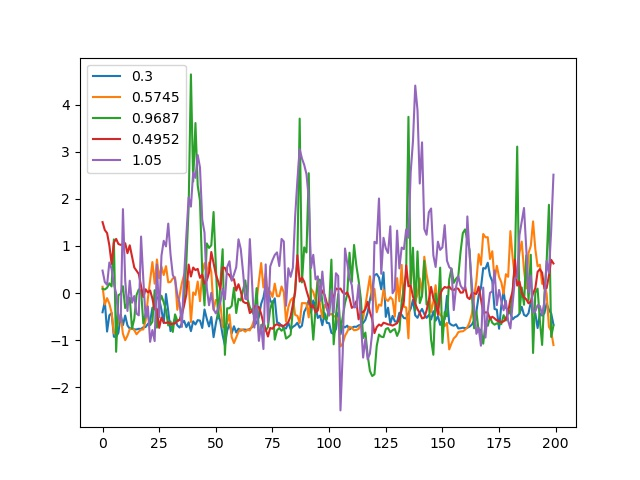
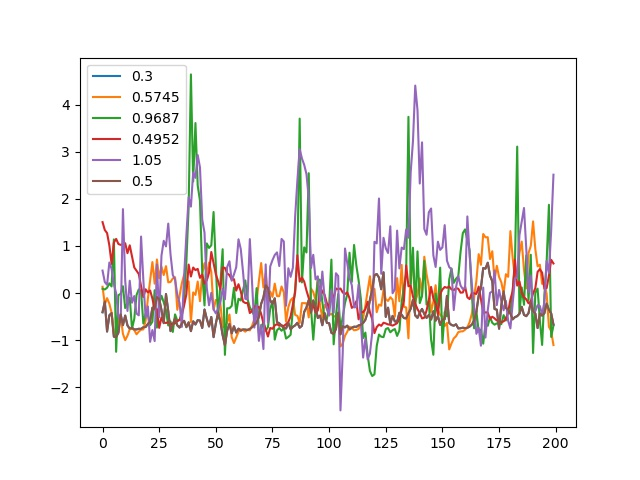
0125

Changed region(s): [[0.1562, 0.5312, 0.875, 0.7188], [0.125, 0.3438, 0.25, 0.4062]]

diff --git a/demo2.py b/demo2.py
@@ -15,15 +15,12 @@ data2 = pd.read_csv(f2)
 data3 = pd.read_csv(f3)
 data4 = pd.read_csv(f4)
 data6 = pd.read_csv(f5)
-
 data5 = pd.read_excel('PBOSS.xlsx')
 
 
 # 设置预测值，根据
 # 1.2倍四分位方差，计算异常值
 # 根据10天的
-
-
 def Warningfun(s_q, p=1.2):
     # 计算上下四分位数
     Q1 = s_q.quantile(q=0.25)
@@ -59,35 +56,32 @@ def Warningfun_main(s_q, inv_t=48):
         # index_flage = np.linspace(0, day_num, num=int(day_num / inv_t) + 1, dtype=int)
         # series_temp2 = series_temp[np.linspace(0, day_num - 1, num=int(day_num / inv_t) + 1, dtype=int)]  # 获取同比数据
         # 等差数列 获取同比数据
-        s_q_temp2=s_q_temp[np.linspace(0, day_num - 1, num=int(day_num / inv_t) + 1, dtype=int)]  # 获取同比数据
-        # 获取四分位
+        s_q_temp2 = s_q_temp[np.linspace(0, day_num - 1, num=int(day_num / inv_t) + 1, dtype=int)]  # 获取同比数据
+        # 获取四分位 异常值
         low_quantile, high_quantile = Warningfun(s_q_temp2)
         result_low.append(low_quantile)
         result_high.append(high_quantile)
     return result_low, result_high
 
 
-def model(df):
-    # 获取最后一列  业务量
-    D_series = df.iloc[:, -1]
-    low_quantile, high_quantile = Warningfun_main(D_series)
-    df['low_quantile'] = low_quantile
-    df['high_quantile'] = high_quantile
-    return df
+# def model(df):
+#     # 获取最后一列  业务量
+#     D_series = df.iloc[:, -1]
+#     low_quantile, high_quantile = Warningfun_main(D_series)
+#     df['low_quantile'] = low_quantile
+#     df['high_quantile'] = high_quantile
+#     return df
+
 
 # 线上预测
 if __name__ == '__main__':
-
- def model_predict(df):
-    # 获取业务量数据
-    D_df = df.iloc[:, -1]
-    # print(D_df)
-    low_quantile, high_quantile = Warningfun_main(D_df)
-    df['low_quantile'] = low_quantile
-    df['high_quantile'] = high_quantile
-    return df
-
-
+    def model_predict(df):
+        # 获取业务量数据
+        D_df = df.iloc[:, -1]
+        low_quantile, high_quantile = Warningfun_main(D_df)
+        df['low_quantile'] = low_quantile
+        df['high_quantile'] = high_quantile
+        return df
 
 
 def plot_fun(df, index=0):
@@ -100,7 +94,6 @@ def plot_fun(df, index=0):
     plt.plot(predict_down, color='g', linestyle='--', label='predict_down')
     plt.legend()
     plt.savefig('plot_' + str(index) + '.jpg')
-    # plt.show()
 
 
 # 计算比例方差
@@ -116,34 +109,35 @@ def std_avg(df):
 def std_avg_to(df):
     # 归一化操作
     df['x'] = df.iloc[:, 0] - df.iloc[:, 1]
+    # print(df['x'])
     df['x1'] = (df['x'] - df['x'].mean()) / df['x'].std()
     return df
 
 
 data1 = data1[['日期', '时间', '业务量']]
-data1 = model(data1)
+data1 = model_predict(data1)
 data1 = std_avg_to(data1[['业务量', 'low_quantile', 'high_quantile']])
 
 data2 = data2[['日期', '时间', '总业务量']]
-data2 = model(data2)
+data2 = model_predict(data2)
 data2 = std_avg_to(data2[['总业务量', 'low_quantile', 'high_quantile']])
 
 data3 = data3[['轮次', '业务', '接收第三方渠道交易量']]
-data3 = model(data3)
+data3 = model_predict(data3)
 data3 = std_avg_to(data3[['接收第三方渠道交易量', 'low_quantile', 'high_quantile']])
 
 data4 = data4[['轮次', '业务', '接收第三方渠道交易量']]
-data4 = model(data4)
+data4 = model_predict(data4)
 data4 = std_avg_to(data4[['接收第三方渠道交易量', 'low_quantile', 'high_quantile']])
 
 data5 = data5[['轮次', '总业务量']]
-data5 = model(data5)
+data5 = model_predict(data5)
 data5 = std_avg_to(data5[['总业务量', 'low_quantile', 'high_quantile']])
 
 # 测试数据
 data6 = data6[['日期', '时间', '业务量']]
 data6 = model_predict(data6)
-data6 = std_avg_to()
+data6 = std_avg_to(data1[['业务量', 'low_quantile', 'high_quantile']])
 
 #  计算差值波动方差
 std_1 = std_avg(data1[['业务量', 'low_quantile', 'high_quantile']])
@@ -151,22 +145,25 @@ std_2 = std_avg(data2[['总业务量', 'low_quantile', 'high_quantile']])
 std_3 = std_avg(data3[['接收第三方渠道交易量', 'low_quantile', 'high_quantile']])
 std_4 = std_avg(data4[['接收第三方渠道交易量', 'low_quantile', 'high_quantile']])
 std_5 = std_avg(data5[['总业务量', 'low_quantile', 'high_quantile']])
-# print([std_1,std_2,std_3,std_4,std_5])
-
+std_6 = std_avg(data6[['业务量', 'low_quantile', 'high_quantile']])
+# print([std_1, std_2, std_3, std_4, std_5, std_6])
 
 # 画图1
-
-plt.figure()  # 创建画布
+plt.figure()
 std_ts1 = data1.iloc[-200:, -1].reset_index(drop=True)
 std_ts2 = data2.iloc[-200:, -1].reset_index(drop=True)
 std_ts3 = data3.iloc[-200:, -1].reset_index(drop=True)
 std_ts4 = data4.iloc[-200:, -1].reset_index(drop=True)
 std_ts5 = data5.iloc[-200:, -1].reset_index(drop=True)
+# 测试数据
+std_ts6 = data6.iloc[-200:, -1].reset_index(drop=True)
 plt.plot(std_ts1, label='0.3')
 plt.plot(std_ts2, label='0.5745')
 plt.plot(std_ts3, label='0.9687')
 plt.plot(std_ts4, label='0.4952')
 plt.plot(std_ts5, label='1.05')
+# 测试数据
+plt.plot(std_ts6, label='0.5')
 plt.legend()
 plt.savefig('plot_0.jpg')
 
@@ -178,32 +175,39 @@ std_ts2 = data2.iloc[-200:, -1].reset_index(drop=True)
 std_ts3 = data3.iloc[-200:, -1].reset_index(drop=True)
 std_ts4 = data4.iloc[-200:, -1].reset_index(drop=True)
 std_ts5 = data5.iloc[-200:, -1].reset_index(drop=True)
+# 测试数据
+std_ts6 = data6.iloc[-200:, -1].reset_index(drop=True)
 fig, ax1 = plt.subplots(figsize=(10, 10))
-plt.subplot(511)
+plt.subplot(611)
 plt.plot(std_ts1, label='0.3')
 plt.ylim(-2, 3)
 plt.legend()
-plt.subplot(512)
+plt.subplot(612)
 plt.plot(std_ts4, label='0.4952')
 plt.ylim(-2, 3)
 plt.legend()
-plt.subplot(513)
+plt.subplot(613)
 plt.plot(std_ts2, label='0.5745')
 plt.ylim(-2, 3)
 plt.legend()
-plt.subplot(514)
+plt.subplot(614)
 plt.plot(std_ts3, label='0.9687')
 plt.ylim(-2, 3)
 plt.legend()
-plt.subplot(515)
+plt.subplot(615)
 plt.plot(std_ts5, label='1.05')
+plt.ylim(-2, 3)
+# 测试数据
+plt.subplot(616)
+plt.plot(std_ts6, label='0.5')
 plt.ylim(-2, 3)
 plt.legend()
 plt.savefig('plot_00.jpg')
 
 # 画图
-# plot_fun(data1[['业务量','low_quantile','high_quantile']],index=11)
+# plot_fun(data1[['业务量', 'low_quantile', 'high_quantile']], index=11)
 # plot_fun(data2[['总业务量','low_quantile','high_quantile']],index=21)
 # plot_fun(data3[['接收第三方渠道交易量','low_quantile','high_quantile']],index=31)
 # plot_fun(data4[['接收第三方渠道交易量','low_quantile','high_quantile']],index=41)
 # plot_fun(data5[['总业务量','low_quantile','high_quantile']],index=51)
+# plot_fun(data6[['业务量', 'low_quantile', 'high_quantile']], index=61)

diff --git a/test2.py b/test2.py
@@ -1,0 +1,57 @@
+import numpy as np
+import matplotlib.pyplot as plt
+
+# subplots创建多个子图
+x = np.arange(0, 100)
+# 划分子图
+fig, axes = plt.subplots(2, 2)
+ax1 = axes[0, 0]
+ax2 = axes[0, 1]
+ax3 = axes[1, 0]
+ax4 = axes[1, 1]
+# 作图1
+ax1.plot(x, x)
+# 作图2
+ax2.plot(x, -x)
+# 作图3
+ax3.plot(x, x ** 2)
+ax3.grid(color='r', linestyle='--', linewidth=1, alpha=0.3)
+# 作图4
+ax4.plot(x, np.log(x))
+
+# 面向对象API：add_subplots与add_axes新增子图或区域
+# add_subplot与add_axes都是面对象figure编程的，pyplot api中没有此命令
+# 1 add_subplot的参数与subplots的相似
+x = np.arange(0, 100)
+# 新建figure对象
+fig = plt.figure()
+# 新建子图1
+ax1 = fig.add_subplot(2, 2, 1)
+ax1.plot(x, x)
+# 新建子图3
+ax3 = fig.add_subplot(2, 2, 3)
+ax3.plot(x, x ** 2)
+ax3.grid(color='r', linestyle='--', linewidth=1, alpha=0.3)
+# 新建子图4
+ax4 = fig.add_subplot(2, 2, 4)
+ax4.plot(x, np.log(x))
+
+# 新建图中图
+# 新建figure
+fig = plt.figure()
+# 定义数据
+x = [1, 2, 3, 4, 5, 6, 7]
+y = [1, 3, 4, 2, 5, 8, 6]
+# 新建区域ax1
+#figure的百分比,从figure 10%的位置开始绘制, 宽高是figure的80%
+left, bottom, width, height = 0.1, 0.1, 0.8, 0.8
+ax1 = fig.add_axes([left, bottom, width, height])
+ax1.plot(x, y, 'r')
+ax1.set_title('area1')
+#新增区域ax2,嵌套在ax1内
+left, bottom, width, height = 0.2, 0.6, 0.25, 0.25
+ax2 = fig.add_axes([left, bottom, width, height])
+ax2.plot(x,y, 'b')
+ax2.set_title('area2')
+if __name__ == '__main__':
+    plt.show()

diff --git a/test.py b/test.py
@@ -1,5 +1,6 @@
 from pandas import np
 import pandas as pd
+import matplotlib.pyplot as plt  # matplotlib图形展示库
 
 if __name__ == '__main__':
     for i in range(1, 3):
@@ -27,3 +28,40 @@ print(df.iloc[:, -1])
 print(df.iloc[:, 0])
 # 获取inex下标为1的数据
 print(df.iloc[:, 1])
+
+# 创建画布
+# num:图像编号或名称，数字为编号 ，字符串为名称
+# figsize:指定figure的宽和高，单位为英寸；
+# dpi参数指定绘图对象的分辨率，即每英寸多少个像素，缺省值为80      1英寸等于2.5cm,A4纸是 21*30cm的纸张
+# facecolor:背景颜色
+# edgecolor:边框颜色
+# frameon:是否显示边框
+# figure = plt.figure(num='gg', figsize=(5, 3), dpi=None, facecolor='red', edgecolor=None, frameon=True)
+# plt.show()
+
+# 创建单个子图
+# nrows:subplot的行数
+# ncols:subplot的列数
+# sharex：所有subplot应该使用相同的X轴刻度(调节xlim将会影响所有的subplot)
+# sharex：所有subplot应该使用相同的Y轴刻度(调节ylim将会影响所有的subplot)
+# subpolt_kw:用于创建各subplot的关键字字典
+# **fig_kw 创建figure时的其他关键字
+# plt.subplot(nrows, ncols, sharex, sharey, subplot_kw, **fig_kw)
+x = np.arange(0,100)
+# 第一行左图
+#作图1
+plt.subplot(221)
+plt.plot(x, x)
+#作图2
+plt.subplot(222)
+plt.plot(x, -x)
+#作图3
+plt.subplot(223)
+plt.plot(x, x ** 2)
+plt.grid(color='r', linestyle='--', linewidth=1,alpha=0.3)
+#作图4
+plt.subplot(224)
+plt.plot(x, np.log(x))
+plt.show()
+
+
